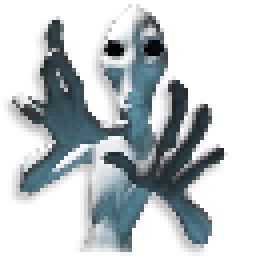
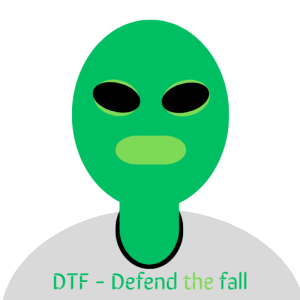
Alterando imagens

diff --git a/assets/scripts/game/game_functs.py b/assets/scripts/game/game_functs.py
@@ -28,7 +28,7 @@ class GameFuncts:
         if image:
             image_surface = pyg.image.load(image)
             image_rect = image_surface.get_rect()
-            image_rect.midbottom = (settings.screen_width * 0.50, settings.screen_height * 0.4)
+            image_rect.midbottom = (settings.screen_width * 0.50, settings.screen_height * 0.48)
             returns.append([image_surface, image_rect])
         GameFuncts.show_text(screen, *returns)
 
@@ -47,7 +47,7 @@ class GameFuncts:
     @staticmethod
     def show_settings(screen, settings, color=(255, 255, 255)):
         msg = """
-Alien Invasion (Invasão alienigena)\n\n
+DTF - Defend the fall\n\n
 - Quit ou tecla Esc para sair do jogo;\n
 - Stop/Rerun ou r: pause ou reinicia o jogo.\n
 - E para instruções;\n

diff --git a/assets/scripts/main/start.py b/assets/scripts/main/start.py
@@ -12,8 +12,8 @@ class InitializeGame:
         pyg.display.set_caption("Alien Invasion")
 
         screen_info = pyg.display.Info()
-        width = screen_info.current_w
-        height = screen_info.current_h
+        width = screen_info.current_w - 100
+        height = screen_info.current_h - 100
         screen = pyg.display.set_mode((width, height))
 
         ai_sets = Settings(width, height, screen)

diff --git a/README.md b/README.md
@@ -1,8 +1,11 @@
 # InvasaoAlien-Pygame
-
-![InvasaoAlien](InvasaoAlien.png)
-
 Este é um jogo arcade simples construído com Pygame ao estudar o livro Curso Intensivo de Python, com algumas novas funcionalidades.
+
+
+## Screenshots
+
+![Defend the Fall](InvasaoAlien.png)
+![Instruções](instrucoes.png)
 
 ## Funcionalidades
 
